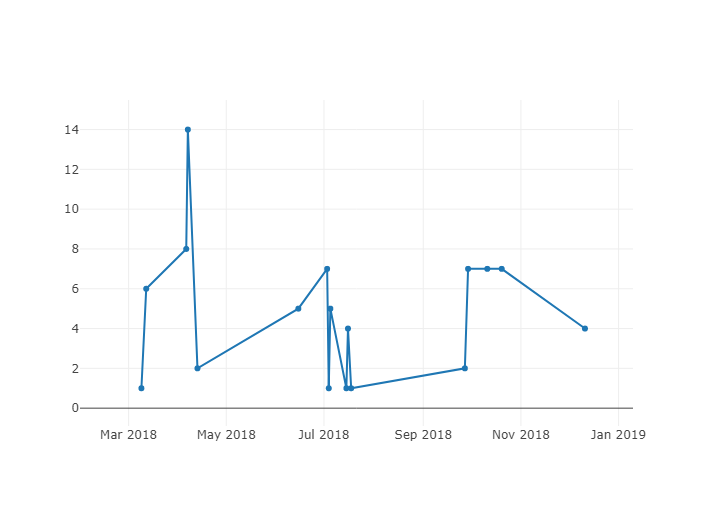
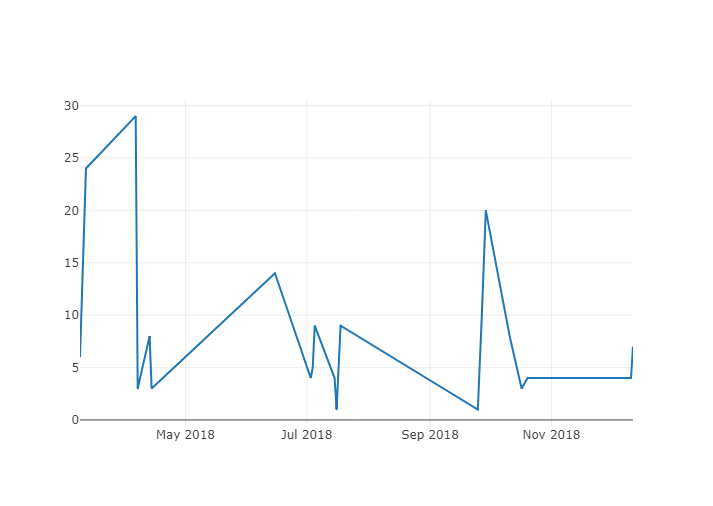
updated

diff --git a/homework04/messages.py b/homework04/messages.py
@@ -16,7 +16,6 @@ Frequencies = List[int]
 dates = []
 frequencies = []
 
-
 plotly.tools.set_credentials_file(
     username=config.PLOTLY_CONFIG['username'],
     api_key=config.PLOTLY_CONFIG['api_key']
@@ -33,25 +32,21 @@ def count_dates_from_messages(messages: List[Message]) -> Tuple[Dates, Frequenci
     :param messages: список сообщений
     """
 
-    new_date = []
     flag = []
 
-    for message in messages:
-        new_date.append(message['date'])  # list with unixtime
+    new_dates = [message['date'] for message in messages]
 
-    new_date = sorted(new_date)
+    new_dates = sorted(new_dates)
 
-    for i in range(len(new_date)):
-        _date = datetime.utcfromtimestamp(new_date[i]).strftime("%Y-%m-%d")
-        if _date not in dates:
-            dates.append(_date)
-            flag.append(i)
+    for i in range(len(new_dates)):
+        _date = datetime.utcfromtimestamp(new_dates[i]).strftime("%Y-%m-%d")
+        flag.append(_date)
 
-    for i in range(len(flag)):
-        if i == 0:
-            frequencies.append(flag[i] + 1)
-        else:
-            frequencies.append(flag[i] - flag[i-1])
+    flag = Counter(flag)
+
+    for i in flag:
+        dates.append(i)
+        frequencies.append(flag[i])
 
     return dates, frequencies
 

diff --git a/homework04/api.py b/homework04/api.py
@@ -1,6 +1,6 @@
 import requests
 import time
-import random
+
 import config
 
 
@@ -81,17 +81,17 @@ def messages_get_history(user_id, offset=0, count=20):
     response = get(query).json()
     count = min(count, 200)
     cycles = response['response']['count'] // count
-    div = response['response']['count'] % count
-    if div:
+    d = response['response']['count'] % count
+    if d:
         cycles += 1
 
     for i in range(cycles):
         query = url.format(**query_params)
         response = get(query, params=query_params)
-        for i in range(min(count, div)):
+        for i in range(min(count, d)):
             messages.append(response.json()['response']['items'][i])
-        if div and i == cycles - 2:
-            query_params['offset'] += div
+        if d and i == cycles - 2:
+            query_params['offset'] += d
         else:
             query_params['offset'] += count
         time.sleep(0.33)

diff --git a/homework04/age.py b/homework04/age.py
@@ -17,13 +17,13 @@ def age_predict(user_id: int) -> Optional[float]:
     assert isinstance(user_id, int), "user_id must be positive integer"
     assert user_id > 0, "user_id must be positive integer"
 
-    friend = get_friends(user_id, fields='bdate')
+    friends = get_friends(user_id, fields='bdate')
     list_age = []
 
-    for item in friend:
-        if 'bdate' in item:
-            item = User(**item)
-            birthday = item.bdate
+    for friend in friends:
+        user = User(**friend)
+        if user.bdate:
+            birthday = user.bdate
             today = dt.now()
 
             if len(birthday) == 10:
@@ -37,6 +37,5 @@ def age_predict(user_id: int) -> Optional[float]:
     return None
 
 
-
-
-
+if __name__ == '__main__':
+    age_predict(user_id=462579673)

diff --git a/homework04/config.py b/homework04/config.py
@@ -1,0 +1,11 @@
+VK_CONFIG = {
+    'domain': 'https://api.vk.com/method',
+    'access_token': "ef7bd508aa06e844aab0e231a51d317fb0cc8260a885a6b839ef7a7c8895473483a3b6cfe648f8108f77b&expires_in=86400&user_id=462579673",
+    'version': '5.92',
+}
+
+
+PLOTLY_CONFIG = {
+    'username': 'NT.Trang',
+    'api_key': '9M1PLqRELFrysZLZc0JG',
+}
